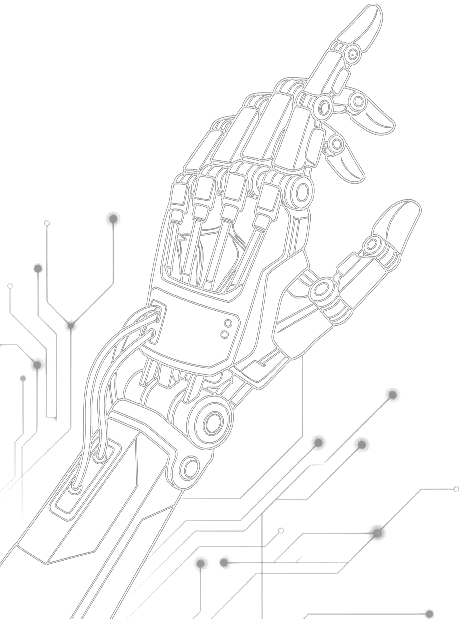
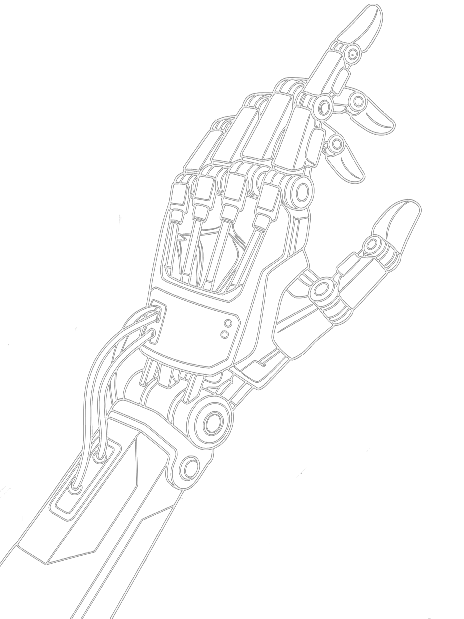
tweak: rotate hero hands 30deg so forearm axis reads flatter (~30deg from horizontal)
- User replaced hero-hand-robot.png with a cleaner version (circuit edges trimmed).
  Verified fingertip pixel still at (80%, 1%) — no CSS coordinate changes needed.

- Rotation applied to final state:
    human: rotate(-30deg)  (CCW — flattens arm toward a shallow diagonal)
    robot: rotate( 30deg)  (CW  — mirror)
  Rotation during entry is steeper (±55deg) for a dramatic sweep-in motion
  that resolves to the flatter resting pose.

- transform-origin set to each hand's fingertip coordinate (2% 99% / 80% 1%)
  so the rotation pivots around the fingertip — it stays pinned at the anchor
  regardless of angle.

- Anchor points adjusted: human left:52% top:50%, robot left:48% top:50%.
  Fingertips now meet horizontally at the same y, 4% apart in x — giving
  the composition a more balanced meeting point rather than vertical stack.

diff --git a/index.html b/index.html
@@ -284,22 +284,27 @@ nav{
    Robot PNG — fingertip at (80%, 1%)  of its own box
    End transform: translate(-x%, -y%) aligns that pixel to the (left, top) anchor. */
 .hero-hand-human{
-  left:49%;top:48%;
+  left:52%;top:50%;
+  transform-origin:2% 99%;   /* pivot at the fingertip so rotation keeps it pinned */
   animation:heroHandHumanIn 2.6s cubic-bezier(.22,.8,.28,1) .45s forwards;
 }
 .hero-hand-robot{
-  left:49%;top:52%;
+  left:48%;top:50%;
+  transform-origin:80% 1%;   /* pivot at the fingertip */
   animation:heroHandRobotIn 2.6s cubic-bezier(.22,.8,.28,1) .45s forwards;
 }
+/* Rotation ~30° flattens the forearm axis toward horizontal (down from the
+   near-vertical default). Both hands now read as reaching into frame from
+   the corners at a shallow diagonal instead of plunging straight down/up. */
 @keyframes heroHandHumanIn{
-  0%  {transform:translate(400%, -340%) rotate(12deg); opacity:0}
+  0%  {transform:translate(400%, -340%) rotate(-55deg); opacity:0}
   35% {opacity:.5}
-  100%{transform:translate(-2%, -99%)   rotate(0);     opacity:.5}
+  100%{transform:translate(-2%, -99%)   rotate(-30deg); opacity:.5}
 }
 @keyframes heroHandRobotIn{
-  0%  {transform:translate(-360%, 320%) rotate(-12deg); opacity:0}
+  0%  {transform:translate(-360%, 320%) rotate(55deg);  opacity:0}
   35% {opacity:.5}
-  100%{transform:translate(-80%, -1%)   rotate(0);      opacity:.5}
+  100%{transform:translate(-80%, -1%)   rotate(30deg);  opacity:.5}
 }
 @media(prefers-reduced-motion:reduce){
   .hero-hand{animation-duration:.01s;animation-delay:0s}
